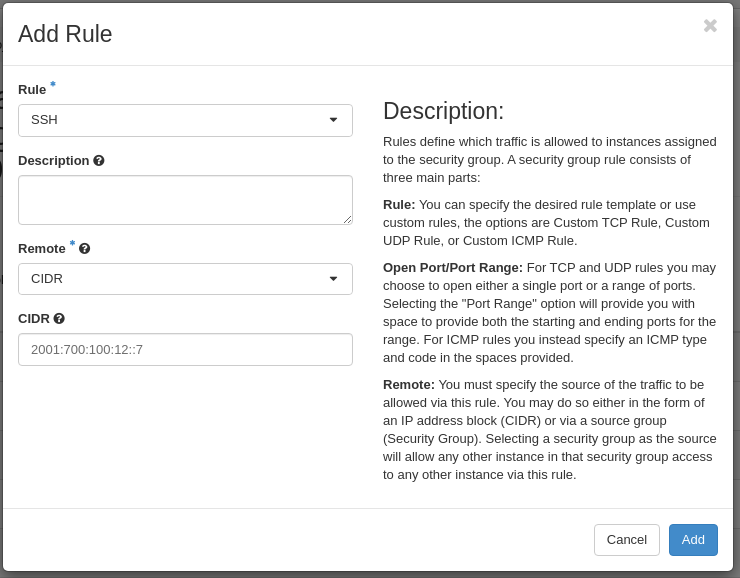
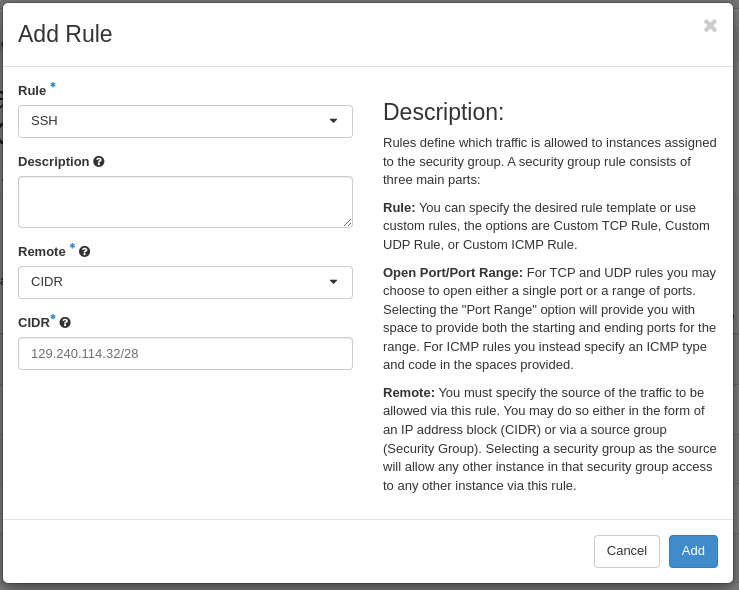
new login.uio.no

diff --git a/docs/security-groups.rst b/docs/security-groups.rst
@@ -222,17 +222,27 @@ Useful CIDR addresses
 Below is a list of CIDR addresses that you may find useful when
 creating security group rules.
 
-+-----------------------+-------------+------------------------------+
-| CIDR                  | IP Protocol | Comment                      |
-+=======================+=============+==============================+
-| ``129.240.0.0/16``    | IPv4        | UiO network                  |
-+-----------------------+-------------+------------------------------+
-| ``2001:700:100::/41`` | IPv6        | UiO network                  |
-+-----------------------+-------------+------------------------------+
-| ``129.177.0.0/16``    | IPv4        | UiB network                  |
-+-----------------------+-------------+------------------------------+
-| ``2001:700:200::/48`` | IPv6        | UiB network                  |
-+-----------------------+-------------+------------------------------+
++----------------------------+-------------+------------------------------+
+| CIDR                       | IP Protocol | Comment                      |
++============================+=============+==============================+
+| ``129.240.0.0/16``         | IPv4        | Entire UiO network           |
++----------------------------+-------------+------------------------------+
+| ``2001:700:100::/41``      | IPv6        | Entire UiO network           |
++----------------------------+-------------+------------------------------+
+| ``129.177.0.0/16``         | IPv4        | Entire UiB network           |
++----------------------------+-------------+------------------------------+
+| ``2001:700:200::/48``      | IPv6        | Entire UiB network           |
++----------------------------+-------------+------------------------------+
+| ``129.240.114.32/28``      | IPv4        | UiO login service            |
+| ``129.240.114.48/28``      |             |                              |
++----------------------------+-------------+------------------------------+
+|``2001:700:100:8070::/64``  | IPv6        | UiO login service            |
+|``2001:700:100:8071::/64``  |             |                              |
++----------------------------+-------------+------------------------------+
+|  ``129.177.13.204/32``     | IPv4        | UiB login service            |
++----------------------------+-------------+------------------------------+
+|``2001:700:200:13::204/128``| IPv6        | UiB login service            |
++----------------------------+-------------+------------------------------+
 
 IP ranges in NREC may change as more blocks are added. You can list
 the NREC subnets (CIDR addresses) with this command, which is region
@@ -286,7 +296,7 @@ In order to create a security group using the CLI, use the command
 
 .. code-block:: console
 
-  $ openstack security group create --description 'Allow ssh and ping from login.uio.no' 'SSH and ICMP from login.uio.no'
+  $ openstack security group create --description 'Allows ssh and ping from login hosts at UiO' 'SSH and ICMP from UiO login hosts'
   (...output omitted...)
 
 As in the dashboard, the description is optional.
@@ -313,38 +323,63 @@ login.uio.no:
 .. code-block:: console
 
   $ host login.uio.no
-  login.uio.no is an alias for smaug.uio.no.
-  smaug.uio.no has address 129.240.12.61
-  smaug.uio.no has IPv6 address 2001:700:100:12::61
+  login.uio.no is an alias for login-2fa-azure.uio.no.
+  login-2fa-azure.uio.no has address 129.240.114.36
+  login-2fa-azure.uio.no has address 129.240.114.52
+  login-2fa-azure.uio.no has IPv6 address 2001:700:100:8070::36
+  login-2fa-azure.uio.no has IPv6 address 2001:700:100:8071::52
 
-We need to add 4 rules:
+As we can see, login.uio.no is actually two hosts. In order to future
+proof our security group wrt. changes to the login sercice, we should
+allow traffic from these subnets that are specifically used for login
+hosts at UiO:
 
-* ICMP over IPv4
-* ICMP over IPv6
-* SSH over IPv4
-* SSH over IPv6
+* ``129.240.114.32/28`` / ``2001:700:100:8070::/64``
+* ``129.240.114.48/28`` / ``2001:700:100:8071::/64``
+  
+We want to add rules that allow:
+
+* ICMP over IPv4 from ``129.240.114.32/28`` and ``129.240.114.48/28``
+* ICMP over IPv6 from ``2001:700:100:8070::/64`` and ``2001:700:100:8071::/64``
+* SSH over IPv4 from ``129.240.114.32/28`` and ``129.240.114.48/28``
+* SSH over IPv6 from ``2001:700:100:8070::/64`` and ``2001:700:100:8071::/64``
 
 We start with ICMP over IPv4. We select **All ICMP** for the rule,
 omit the optional description, and leave the **Direction**
 and **Remote** as "Ingress" and "CIDR", respectively. In the **CIDR**
-field, we enter the IPv4 address of login.uio.no, which we found
-above:
+field, we enter the first IPv4 CIDR address (``129.240.114.32/28``)
+for login hosts as mentioned above:
 
 .. figure:: images/security-groups-add-rule-02.png
    :align: center
-   :alt: Add ICMP/IPv4 security group rule
+   :alt: Add first ICMP/IPv4 security group rule
 
-For the ICMP over IPv6 rule, we do exactly the same except entering
-the IPv6 address in the **CIDR** field.
+And the same for the second CIDR address (``129.240.114.48/28``):
+
+.. figure:: images/security-groups-add-rule-02b.png
+   :align: center
+   :alt: Add second ICMP/IPv4 security group rule
+
+For the ICMP over IPv6 rules, we do exactly the same except entering
+the IPv6 CIDR addresses in the **CIDR** field:
+
+.. figure:: images/security-groups-add-rule-02c.png
+   :align: center
+   :alt: Add first ICMP/IPv6 security group rule
+
+.. figure:: images/security-groups-add-rule-02d.png
+   :align: center
+   :alt: Add second ICMP/IPv6 security group rule
 
 For the SSH rules, we repeat the steps for ICMP, except choosing "SSH"
-in the **Rule** drop-down menu:
+in the **Rule** drop-down menu (example for the first Ipv4 CIDR
+addresses):
 
 .. figure:: images/security-groups-add-rule-03.png
    :align: center
    :alt: Add SSH/IPv6 security group rule
 
-After creating the four rules, it should look like this:
+After creating all rules, it should look like this:
 
 .. figure:: images/security-groups-add-rule-04.png
    :align: center
@@ -358,47 +393,63 @@ list our security groups:
 .. code-block:: console
 
   $ openstack security group list
-  +--------------------------------------+--------------------------------+--------------------------------------+----------------------------------+------+
-  | ID                                   | Name                           | Description                          | Project                          | Tags |
-  +--------------------------------------+--------------------------------+--------------------------------------+----------------------------------+------+
-  | 5157dbad-f96b-4921-b9ba-520b5e2ce995 | SSH and ICMP from login.uio.no | Allow ssh and ping from login.uio.no | 24823ac5a6dd4d27966310600abce54d | []   |
-  | 6743c744-1a06-462e-82e6-85c9d0b2399f | default                        | Default security group               | 24823ac5a6dd4d27966310600abce54d | []   |
-  +--------------------------------------+--------------------------------+--------------------------------------+----------------------------------+------+
+  +--------------------------------------+-----------------------------------+---------------------------------------------+----------------------------------+------+
+  | ID                                   | Name                              | Description                                 | Project                          | Tags |
+  +--------------------------------------+-----------------------------------+---------------------------------------------+----------------------------------+------+
+  | 502bd0d6-91ab-4772-8fab-4ec1275372cf | SSH and ICMP from UiO login hosts | Allows ssh and ping from login hosts at UiO | e55fe3f025894c62a100713e92193e64 | []   |
+  | 5e3a9975-667b-46b7-9fdc-629ae8d09368 | default                           | Default security group                      | e55fe3f025894c62a100713e92193e64 | []   |
+  +--------------------------------------+-----------------------------------+---------------------------------------------+----------------------------------+------+
 
 When specifying the security group we can use either the ID or the
 name of the security group. Since the name in our case contains spaces
-we're opting to use the ID. Adding the rules:
+we're opting to use the ID. Adding the rules (omitting output):
 
 .. code-block:: console
 
-  $ openstack security group rule create --ethertype IPv4 --protocol icmp --remote-ip 129.240.12.61 5157dbad-f96b-4921-b9ba-520b5e2ce995
-  (...output omitted...)
-  
-  $ openstack security group rule create --ethertype IPv6 --protocol ipv6-icmp --remote-ip 2001:700:100:12::61 5157dbad-f96b-4921-b9ba-520b5e2ce995
-  (...output omitted...)
+  $ openstack security group rule create --ethertype IPv4 --protocol icmp \
+      --remote-ip 129.240.114.32/28 502bd0d6-91ab-4772-8fab-4ec1275372cf
 
-  $ openstack security group rule create --ethertype IPv4 --protocol tcp --dst-port 22 --remote-ip 129.240.12.61 5157dbad-f96b-4921-b9ba-520b5e2ce995
-  (...output omitted...)
+  $ openstack security group rule create --ethertype IPv4 --protocol icmp \
+      --remote-ip 129.240.114.48/28 502bd0d6-91ab-4772-8fab-4ec1275372cf
+
+  $ openstack security group rule create --ethertype IPv6 --protocol ipv6-icmp \
+      --remote-ip 2001:700:100:8070::/64 502bd0d6-91ab-4772-8fab-4ec1275372cf
+
+  $ openstack security group rule create --ethertype IPv6 --protocol ipv6-icmp \
+      --remote-ip 2001:700:100:8071::/64 502bd0d6-91ab-4772-8fab-4ec1275372cf
+
+  $ openstack security group rule create --ethertype IPv4 --protocol tcp --dst-port 22 \
+      --remote-ip 129.240.114.32/28 502bd0d6-91ab-4772-8fab-4ec1275372cf
   
-  $ openstack security group rule create --ethertype IPv6 --protocol tcp --dst-port 22 --remote-ip 2001:700:100:12::61 5157dbad-f96b-4921-b9ba-520b5e2ce995
-  (...output omitted...)
+  $ openstack security group rule create --ethertype IPv4 --protocol tcp --dst-port 22 \
+      --remote-ip 129.240.114.48/28 502bd0d6-91ab-4772-8fab-4ec1275372cf
+
+  $ openstack security group rule create --ethertype IPv6 --protocol tcp --dst-port 22 \
+      --remote-ip 2001:700:100:8070::/64 502bd0d6-91ab-4772-8fab-4ec1275372cf
+
+  $ openstack security group rule create --ethertype IPv6 --protocol tcp --dst-port 22 \
+      --remote-ip 2001:700:100:8071::/64 502bd0d6-91ab-4772-8fab-4ec1275372cf
 
 After creating the rules, we can list all rules in the security group
 for inspection:
 
 .. code-block:: console
 
-  $ openstack security group rule list --long 5157dbad-f96b-4921-b9ba-520b5e2ce995
-  +--------------------------------------+-------------+-----------+-------------------------+------------+-----------+-----------------------+
-  | ID                                   | IP Protocol | Ethertype | IP Range                | Port Range | Direction | Remote Security Group |
-  +--------------------------------------+-------------+-----------+-------------------------+------------+-----------+-----------------------+
-  | 1cae9fa2-d8e3-4a65-bd7e-e61f43f71a3f | ipv6-icmp   | IPv6      | 2001:700:100:12::61/128 |            | ingress   | None                  |
-  | 4fd75388-8561-4b94-ba39-b689d3b3dbd0 | None        | IPv6      | ::/0                    |            | egress    | None                  |
-  | 5b536357-c390-4056-9c50-59bc116546bd | None        | IPv4      | 0.0.0.0/0               |            | egress    | None                  |
-  | 6dddba09-c782-4971-84f5-e09de159c6b4 | tcp         | IPv6      | 2001:700:100:12::61/128 | 22:22      | ingress   | None                  |
-  | b7895523-aadc-4756-b8b9-2eab8091ce96 | tcp         | IPv4      | 129.240.12.61/32        | 22:22      | ingress   | None                  |
-  | b7cab74e-d023-4504-b4f6-2e50e9e9a52f | icmp        | IPv4      | 129.240.12.61/32        |            | ingress   | None                  |
-  +--------------------------------------+-------------+-----------+-------------------------+------------+-----------+-----------------------+
+  $ openstack security group rule list 502bd0d6-91ab-4772-8fab-4ec1275372cf
+  +--------------------------------------+-------------+-----------+------------------------+------------+-----------+-----------------------+----------------------+
+  | ID                                   | IP Protocol | Ethertype | IP Range               | Port Range | Direction | Remote Security Group | Remote Address Group |
+  +--------------------------------------+-------------+-----------+------------------------+------------+-----------+-----------------------+----------------------+
+  | 11698bdf-6fcd-45e3-b69d-d08811dbdce9 | tcp         | IPv6      | 2001:700:100:8070::/64 | 22:22      | ingress   | None                  | None                 |
+  | 24b8ab82-c596-4a59-bb8e-3733626ce6a3 | ipv6-icmp   | IPv6      | 2001:700:100:8070::/64 |            | ingress   | None                  | None                 |
+  | 28f5795b-012a-4be6-909a-70ff6ee3fb0e | ipv6-icmp   | IPv6      | 2001:700:100:8071::/64 |            | ingress   | None                  | None                 |
+  | 38fa042b-f865-42fe-8604-664439a062fb | icmp        | IPv4      | 129.240.114.32/28      |            | ingress   | None                  | None                 |
+  | 767edc46-65d0-47cd-9ac5-8e72a1305cc5 | tcp         | IPv4      | 129.240.114.48/28      | 22:22      | ingress   | None                  | None                 |
+  | ac765beb-9d4b-415a-b449-64ba9036b74d | tcp         | IPv4      | 129.240.114.32/28      | 22:22      | ingress   | None                  | None                 |
+  | bd4d4340-d014-4e2d-82f3-680a521ce16d | None        | IPv6      | ::/0                   |            | egress    | None                  | None                 |
+  | c697fb13-c555-4a54-ab98-a6440dfc799a | tcp         | IPv6      | 2001:700:100:8071::/64 | 22:22      | ingress   | None                  | None                 |
+  | dba5f73d-a7ec-4452-aec9-07b9f8b82373 | icmp        | IPv4      | 129.240.114.48/28      |            | ingress   | None                  | None                 |
+  | df890224-2b36-4ad9-a298-699b99d21036 | None        | IPv4      | 0.0.0.0/0              |            | egress    | None                  | None                 |
+  +--------------------------------------+-------------+-----------+------------------------+------------+-----------+-----------------------+----------------------+
 
 
 Remote Security Group
